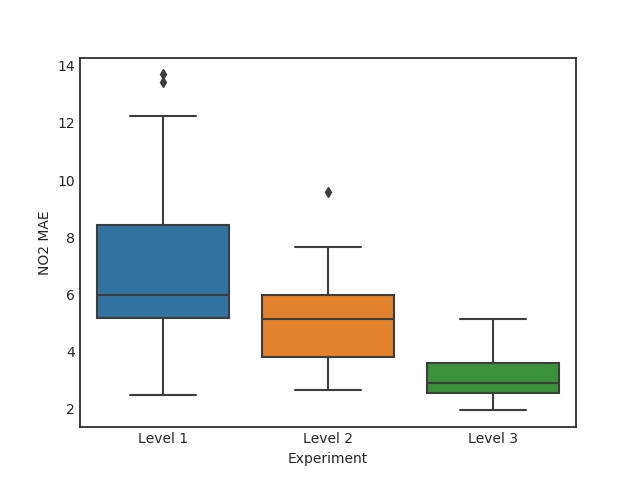
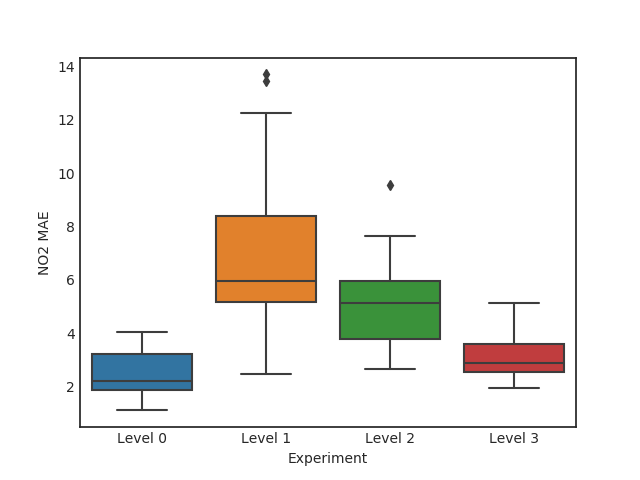
fixed levels

diff --git a/scripts/generate_levels.py b/scripts/generate_levels.py
@@ -28,10 +28,10 @@ if __name__ == "__main__":
     level0 = process_level(pd.read_csv(path / 'level0' / 'test.csv'), 'Level 0')
     level1 = process_level(pd.read_csv(path / 'level1' / 'test.csv'), 'Level 1')
     level2 = process_level(pd.read_csv(path / 'level2' / 'test.csv'), 'Level 2')
-    level25 = process_level(pd.read_csv(path / 'level2.5' / 'test.csv'), 'Level 2.5')
+    # level25 = process_level(pd.read_csv(path / 'level2.5' / 'test.csv'), 'Level 2.5')
     level3 = process_level(pd.read_csv(path / 'level3' / 'test.csv'), 'Level 3')
-    level4 = process_level(pd.read_csv(path / 'level4' / 'test.csv'), 'Level 4')
-    data = pd.concat([level0, level1, level2, level25, level3, level4])
+    # level4 = process_level(pd.read_csv(path / 'level4' / 'test.csv'), 'Level 4')
+    data = pd.concat([level0, level1, level2, level3])
     plt.figure()
     sns.boxplot(data=data, x='Experiment', y='O3 MAE')
     plt.savefig(str(path / 'o3.png'))
